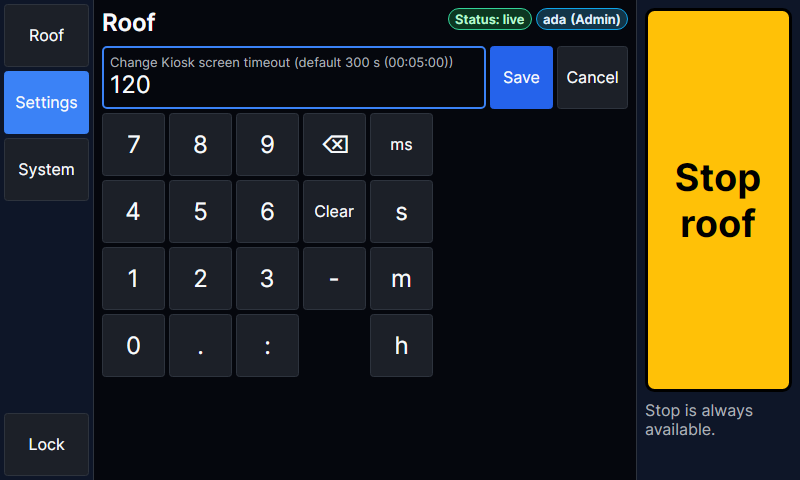
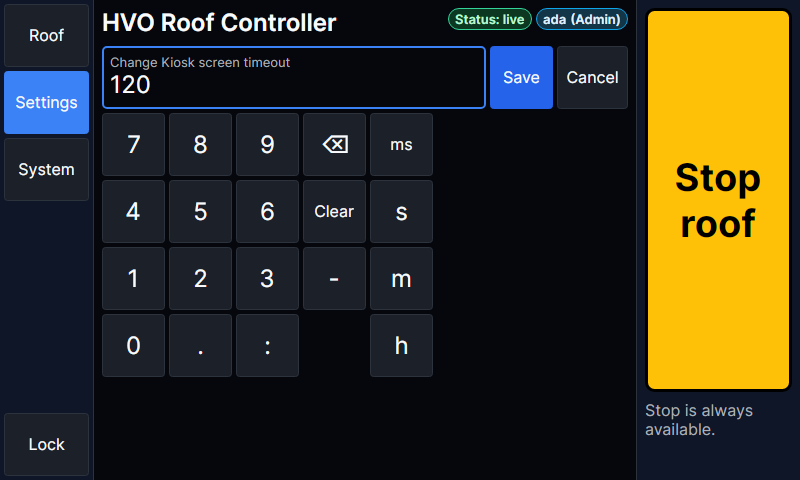
fix: address the recheck of the kiosk review fixes (#47)
- The header gives the controller's name the width the badges leave,
  and at least half the header (KioskHeaderPanel), on one line; a
  longer name ends in an ellipsis and the Controller row shows it
  whole. It is no longer broken inside a word by a fixed cap.
- The renders send the controller's default name, as a controller
  does, and the docs screenshots are refreshed to match.
- The settings editor's caption no longer carries the default (shown
  a press before, on the setting's page) and is never cut; a test
  opens every writable setting's editor at 800x480.
- The render checks accept an abbreviated text only where kiosk.md
  says one is shortened on purpose.
- kiosk.md takes the certificate pin from the certificate the
  controller serves, not from a roof.crt the directory lacks; a test
  checks every file the steps read.
- The test rig takes the server when the host starts: after a web UI
  Restart the program disposes the host's services before the rig's
  cleanup (the browser job's ObjectDisposedException).

Claude-Session: https://claude.ai/code/session_01YTXGZBH85aEHV5KnWRZ6C4

Changed region(s): [[0.125, 0.0, 0.4375, 0.0625], [0.375, 0.0938, 0.5625, 0.1562]]

diff --git a/tests/HVO.RoofControllerV4.RPi.Tests/Kiosk/KioskRenderTests.cs b/tests/HVO.RoofControllerV4.RPi.Tests/Kiosk/KioskRenderTests.cs
@@ -5,6 +5,7 @@ using Avalonia.Interactivity;
 using Avalonia.Media;
 using Avalonia.VisualTree;
 using FluentAssertions;
+using HVO.Core.Results;
 using HVO.RoofControllerV4.Client;
 using HVO.RoofControllerV4.Common.Models;
 using HVO.RoofControllerV4.RPi.Logic;
@@ -121,7 +122,7 @@ public sealed class KioskRenderTests
 
         await OnUiAsync(() =>
         {
-            screen.Text("title").Should().Be("Roof");
+            screen.Text("title").Should().Be(KioskHarness.ControllerName);
             screen.Visible("lease").Should().BeTrue();
             var pill = screen.Find("unlocked-by")!;
             pill.Bounds.Width.Should().BeLessThanOrEqualTo(screen.Metrics.Touch * 3, "a long name is cut short, not the header squeezed");
@@ -134,6 +135,67 @@ public sealed class KioskRenderTests
                 .Where(block => block.IsEffectivelyVisible && block.Text?.EndsWith(unlocked, StringComparison.Ordinal) == true)
                 .Should().ContainSingle("the whole name is in the notice");
         });
+    }
+
+    [TestMethod]
+    [DataRow(1280, 720, 8.2, "HualapaiValleyObservatory", false)]
+    [DataRow(800, 480, 5.2, "HualapaiValleyObservatory", false)]
+    [DataRow(1280, 720, 8.2, "HualapaiValleyObservatoryRollOffRoofController", true)]
+    [DataRow(800, 480, 5.2, "HualapaiValleyObservatoryRollOffRoofController", true)]
+    [DataRow(1280, 720, 8.2, "Hualapai Valley Observatory roll-off roof controller", true)]
+    [DataRow(800, 480, 5.2, "Hualapai Valley Observatory roll-off roof controller", true)]
+    public async Task TheControllerName_IsWholeWhileTheBadgesFitBesideIt_AndKeepsHalfTheHeaderWhenNot(
+        int width, int height, double pixelsPerMillimetre, string start, bool padded)
+    {
+        // Padded to as long as a controller name may be (64 characters); the person's name too, with the lease pill.
+        var controller = padded ? start.PadRight(64, 'x') : start;
+        var name = "observatory.night.operator@hualapai-valley.example.org".PadRight(RoofIdentityContract.MaximumNameLength, 'x');
+        await using var harness = await KioskHarness.CreateAsync();
+        harness.Report(harness.Current with { ControllerName = controller });
+        harness.Roof.Mock.Setup(service => service.Open()).Returns(() =>
+        {
+            harness.Report(KioskHarness.Opening() with { ControllerName = controller });
+            return Result<RoofControllerStatus>.Success(RoofControllerStatus.Opening);
+        });
+        await harness.StartLiveAsync();
+        await RoofClientApiTests.AddUserAsync(harness.Host, name, RoofControllerApiContract.OperatorRole, TestSecrets.Pin);
+        await using var screen = await KioskScreen.ShowAsync(harness, width, height, pixelsPerMillimetre);
+
+        // Locked, the badges are short: a name that fits beside them is whole.
+        await screen.RenderAsync($"controller-name-locked-{controller.Length}-{(controller.Contains(' ') ? "words" : "word")}", TestContext);
+        await OnUiAsync(() => TitleShouldFit(screen, controller, whole: !padded));
+
+        await harness.UnlockAsync(name);
+        await harness.Console.OpenAsync();
+        await harness.WaitForAsync(view => view.HoldsLease && view.Status?.Status == RoofControllerStatus.Opening, "the opening roof");
+        await screen.RenderAsync($"controller-name-unlocked-{controller.Length}-{(controller.Contains(' ') ? "words" : "word")}", TestContext);
+        await OnUiAsync(() =>
+        {
+            // Unlocked, the person's pill and the lease take more room: a short name may or may not fit beside them.
+            TitleShouldFit(screen, controller, whole: padded ? false : null);
+            screen.Visible("lease").Should().BeTrue();
+        });
+    }
+
+    private static void TitleShouldFit(KioskScreen screen, string controller, bool? whole)
+    {
+        var title = (TextBlock)screen.Find("title")!;
+        var header = (Control)title.GetVisualParent()!;
+        title.Text.Should().Be(controller);
+        title.TextLayout.TextLines.Should().ContainSingle("the name is on one line, never broken inside a word");
+        if (whole == true)
+        {
+            title.TextLayout.TextLines[0].HasCollapsed.Should().BeFalse("the name fits beside the badges");
+        }
+        else if (whole == false || title.TextLayout.TextLines[0].HasCollapsed)
+        {
+            title.TextLayout.TextLines[0].HasCollapsed.Should().BeTrue("a name too long for its share ends in an ellipsis");
+            title.Bounds.Width.Should().BeGreaterThanOrEqualTo(header.Bounds.Width / 2 - 1, "the name keeps at least half the header");
+        }
+
+        screen.Window.GetVisualDescendants().OfType<TextBlock>()
+            .Where(block => block.IsEffectivelyVisible && block.Text?.Contains(controller, StringComparison.Ordinal) == true && block != title)
+            .Should().NotBeEmpty("the status card's Controller row shows the name whole");
     }
 
     [TestMethod]
@@ -298,6 +360,39 @@ public sealed class KioskRenderTests
             screen.Text("editor-value").Should().Be("Pier");
             screen.OffScreen(name => name.StartsWith("editor-", StringComparison.Ordinal)).Should().BeEmpty("the value, Save, Cancel and every key are on the screen without scrolling");
         });
+    }
+
+    [TestMethod]
+    public async Task EverySettingsEditor_FitsTheSmallestScreen_WithItsCaptionWhole()
+    {
+        await using var harness = await KioskHarness.CreateAsync();
+        await harness.StartLiveAsync();
+        await harness.UnlockAsync(KioskHarness.Admin);
+        await using var screen = await KioskScreen.ShowAsync(harness, 800, 480, 5.2);
+        await OnUiAsync(() => screen.Shell.ShowPage(KioskPage.Settings));
+        await UntilAsync(() => screen.Shell.Settings is { Form: not null, Busy: null }, "the settings");
+        var keys = await OnUiAsync(() => screen.Shell.Settings.Form!.Groups
+            .SelectMany(group => group.Fields)
+            .Where(field => field.CanWrite && !field.Setting.Secret)
+            .Select(field => field.Key)
+            .ToList());
+        keys.Should().HaveCountGreaterThan(20, "the admin may change most settings here");
+
+        foreach (var key in keys)
+        {
+            await OnUiAsync(() =>
+            {
+                screen.Shell.Settings.SelectField(key);
+                screen.Shell.Settings.BeginEdit();
+            });
+            await screen.CheckAsync($"editor-{key}");
+            await OnUiAsync(() =>
+            {
+                screen.Shell.Settings.Editing.Should().NotBeNull(key);
+                screen.OffScreen(name => name.StartsWith("editor-", StringComparison.Ordinal)).Should().BeEmpty($"{key}'s editor is on the screen without scrolling");
+                screen.Shell.Settings.CancelEdit();
+            });
+        }
     }
 
     [TestMethod]

diff --git a/tests/HVO.RoofControllerV4.RPi.Tests/Kiosk/KioskProgramTests.cs b/tests/HVO.RoofControllerV4.RPi.Tests/Kiosk/KioskProgramTests.cs
@@ -440,17 +440,23 @@ public sealed partial class KioskProgramTests
     [TestMethod]
     public void TheInstallSteps_InstallEveryFileOfTheDirectoryTheyRunIn_AndNoOther()
     {
-        // The directory is the program beside the deploy files: CI's artifact, or what the page publishes and copies.
-        var directory = Directory.GetFiles(Path.GetDirectoryName(DeployFile("hvo-roof-kiosk.service"))!)
-            .Select(Path.GetFileName)
-            .Append("hvo-roof-kiosk");
         var page = File.ReadAllText(InstallPage());
         var installed = InstallPattern().Matches(page).Select(match => match.Groups["source"].Value);
 
-        installed.Should().BeEquivalentTo(directory, "the steps install each file by its bare name, from that directory");
+        installed.Should().BeEquivalentTo(InstallDirectory(), "the steps install each file by its bare name, from that directory");
         page.Should().Contain("dotnet publish src/HVO.RoofControllerV4.Kiosk -c Release -r linux-arm64 -o hvo-roof-kiosk\n")
             .And.Contain("cp src/HVO.RoofControllerV4.Kiosk/deploy/* hvo-roof-kiosk/\n")
             .And.Contain("cd hvo-roof-kiosk\n");
+    }
+
+    [TestMethod]
+    public void TheInstallSteps_ReadNoFileTheDirectoryTheyRunInLacks()
+    {
+        var page = File.ReadAllText(InstallPage());
+        var read = ReadPattern().Matches(page).Select(match => match.Groups["file"].Value).ToList();
+
+        read.Should().NotBeEmpty("the page's commands read files (an example: the settings)");
+        read.Where(file => !file.StartsWith('/')).Should().BeSubsetOf(InstallDirectory(), "a file a step reads by a relative name is in the directory the steps run in");
     }
 
     [GeneratedRegex("ACTION==\"(?<action>[a-z]+)\"")]
@@ -458,6 +464,16 @@ public sealed partial class KioskProgramTests
 
     [GeneratedRegex("^ *sudo install -m [0-7]+ (?<source>[^ ]+) [^ ]+$", RegexOptions.Multiline)]
     private static partial Regex InstallPattern();
+
+    /// <summary>A file a command reads: an install's source, or <c>-in</c>'s file.</summary>
+    [GeneratedRegex("(?:^ *sudo install -m [0-7]+ | -in )(?<file>[^ \n]+)", RegexOptions.Multiline)]
+    private static partial Regex ReadPattern();
+
+    /// <summary>The directory the install steps run in: the program beside the deploy files (CI's artifact, or what the page publishes and copies).</summary>
+    private static IEnumerable<string> InstallDirectory()
+        => Directory.GetFiles(Path.GetDirectoryName(DeployFile("hvo-roof-kiosk.service"))!)
+            .Select(file => Path.GetFileName(file))
+            .Append("hvo-roof-kiosk");
 
     private static string DeployFile(string name) => Path.Combine(RepositoryRoot(), "src", "HVO.RoofControllerV4.Kiosk", "deploy", name);
 

diff --git a/tests/HVO.RoofControllerV4.RPi.Tests/Kiosk/KioskScreen.cs b/tests/HVO.RoofControllerV4.RPi.Tests/Kiosk/KioskScreen.cs
@@ -88,6 +88,14 @@ internal sealed class KioskScreen : IAsyncDisposable
         return pixels.Lit;
     });
 
+    /// <summary>Lays the screen out and runs <see cref="RenderAsync"/>'s layout checks, without drawing or saving it.</summary>
+    public Task CheckAsync(string name) => OnUiAsync(() =>
+    {
+        Window.UpdateLayout();
+        Dispatcher.UIThread.RunJobs();
+        CheckLayout(name);
+    });
+
     /// <summary>Lays the screen out and draws it, as the kiosk does when something on it changes, without saving it.</summary>
     public Task DrawAsync() => OnUiAsync(() =>
     {
@@ -166,6 +174,10 @@ internal sealed class KioskScreen : IAsyncDisposable
         return shown;
     }
 
+    /// <summary>The texts shortened on purpose: the controller's name, the person's name on its pill, and the value being typed.</summary>
+    private static bool ShortenedOnPurpose(TextBlock block)
+        => block.Name is "title" or "editor-value" || block.GetVisualAncestors().OfType<Control>().Any(ancestor => ancestor.Name == "unlocked-by");
+
     private void CheckLayout(string name)
     {
         var screen = new Rect(Window.ClientSize);
@@ -202,8 +214,16 @@ internal sealed class KioskScreen : IAsyncDisposable
             }
 
             // An ellipsis cuts a text short without shortening its lines, and a text that may not wrap can be wider than
-            // its box. Only a text marked abbreviated may end in an ellipsis: its whole text is shown elsewhere.
-            if (!block.Classes.Contains(KioskTheme.Abbreviated))
+            // its box. Only a text marked abbreviated may end in an ellipsis: its whole text is shown elsewhere. Those are
+            // the three kiosk.md lists; the mark on any other is a fault.
+            if (block.Classes.Contains(KioskTheme.Abbreviated))
+            {
+                if (!ShortenedOnPurpose(block))
+                {
+                    problems.Add($"\"{text}\" is marked abbreviated, but is not one of the texts kiosk.md says are shortened on purpose");
+                }
+            }
+            else
             {
                 if (block.TextLayout.TextLines.Any(line => line.HasCollapsed))
                 {

diff --git a/src/HVO.RoofControllerV4.Screens/KioskHeaderPanel.cs b/src/HVO.RoofControllerV4.Screens/KioskHeaderPanel.cs
@@ -1,0 +1,46 @@
+using Avalonia;
+using Avalonia.Controls;
+
+namespace HVO.RoofControllerV4.Screens;
+
+/// <summary>
+/// The header's layout: the title (its first child) on the left and the badges (its second) on the right. The title has
+/// its whole width while the badges fit beside it on one line, and at least half the header when they do not; the badges
+/// take what is left and wrap onto more lines in it. A title wider than its share is cut short by the title itself.
+/// </summary>
+internal sealed class KioskHeaderPanel : Panel
+{
+    private double _titleWidth;
+
+    /// <summary>The room between the title and the badges.</summary>
+    public double Spacing { get; init; }
+
+    protected override Size MeasureOverride(Size availableSize)
+    {
+        var (title, badges) = (Children[0], Children[1]);
+        var unbounded = new Size(double.PositiveInfinity, availableSize.Height);
+        title.Measure(unbounded);
+        badges.Measure(unbounded);
+        var width = availableSize.Width;
+        if (!double.IsFinite(width))
+        {
+            _titleWidth = title.DesiredSize.Width;
+            return new Size(_titleWidth + Spacing + badges.DesiredSize.Width, Math.Max(title.DesiredSize.Height, badges.DesiredSize.Height));
+        }
+
+        _titleWidth = Math.Min(title.DesiredSize.Width, Math.Max(width / 2, width - Spacing - badges.DesiredSize.Width));
+        title.Measure(new Size(_titleWidth, availableSize.Height));
+        badges.Measure(new Size(Math.Max(0, width - _titleWidth - Spacing), availableSize.Height));
+        return new Size(width, Math.Max(title.DesiredSize.Height, badges.DesiredSize.Height));
+    }
+
+    protected override Size ArrangeOverride(Size finalSize)
+    {
+        var (title, badges) = (Children[0], Children[1]);
+        var titleWidth = Math.Min(_titleWidth, finalSize.Width);
+        title.Arrange(new Rect(0, 0, titleWidth, finalSize.Height));
+        var left = Math.Min(finalSize.Width, titleWidth + Spacing);
+        badges.Arrange(new Rect(left, 0, finalSize.Width - left, finalSize.Height));
+        return finalSize;
+    }
+}

diff --git a/src/HVO.RoofControllerV4.Screens/KioskShell.cs b/src/HVO.RoofControllerV4.Screens/KioskShell.cs
@@ -58,17 +58,18 @@ public sealed class KioskShell : UserControl
         Foreground = KioskTheme.Text;
         FontSize = metrics.Font;
 
-        // The title and the badges share the header: the title (the controller's name) keeps its width, wrapping between
-        // words past a limit, and the badges wrap onto more lines in what is left. The unlocking person's name is cut
-        // short on its pill (see UpdateBadges), so a long one cannot squeeze the title.
+        // The title and the badges share the header (KioskHeaderPanel): the title (the controller's name) is whole while
+        // the badges fit beside it, and keeps at least half the header when they do not; a longer name ends in an
+        // ellipsis, and the status card's Controller row shows it whole. The badges wrap onto more lines in what is
+        // left. The unlocking person's name is cut short on its pill (see UpdateBadges), so a long one cannot squeeze
+        // the title.
         _title = KioskTheme.Label("Roof", metrics.Large, weight: FontWeight.SemiBold);
         _title.Name = "title";
-        _title.MaxWidth = metrics.Touch * 4;
+        _title.TextWrapping = TextWrapping.NoWrap;
+        _title.TextTrimming = TextTrimming.CharacterEllipsis;
+        _title.Classes.Add(KioskTheme.Abbreviated);
         _badges = new WrapPanel { Name = "badges", ItemSpacing = metrics.Gap, LineSpacing = metrics.Gap / 2, HorizontalAlignment = HorizontalAlignment.Right };
-        var header = new Grid { ColumnDefinitions = new ColumnDefinitions("Auto,*"), ColumnSpacing = metrics.Gap * 2, Margin = new Thickness(0, 0, 0, metrics.Gap) };
-        header.Children.Add(_title);
-        Grid.SetColumn(_badges, 1);
-        header.Children.Add(_badges);
+        var header = new KioskHeaderPanel { Spacing = metrics.Gap * 2, Margin = new Thickness(0, 0, 0, metrics.Gap), Children = { _title, _badges } };
         _banners = new StackPanel { Name = "banners", Spacing = metrics.Gap, Margin = new Thickness(0, 0, 0, metrics.Gap) };
         _scroller = new ScrollViewer
         {

diff --git a/src/HVO.RoofControllerV4.Screens/KioskSettingsPage.cs b/src/HVO.RoofControllerV4.Screens/KioskSettingsPage.cs
@@ -170,7 +170,8 @@ public sealed class KioskSettingsPage : UserControl
     private Control Editor(RoofSettingsFormField field)
     {
         var panel = new StackPanel { Name = "editor", Spacing = _metrics.Gap };
-        var label = $"Change {field.Label} (default {field.DefaultValue})";
+        // The default is on the setting's page, a press before the editor; here the caption is kept to one short line.
+        var label = $"Change {field.Label}";
         if (_panel.EditError is { } error)
         {
             // Above the editor, so it is seen without scrolling past the keyboard.
@@ -214,15 +215,14 @@ public sealed class KioskSettingsPage : UserControl
                     VerticalAlignment = VerticalAlignment.Center,
                     Children =
                     {
-                        // The label is the setting's, shown whole on its page before the editor opened.
+                        // One line, never cut: the render checks refuse it cut short.
                         new TextBlock
                         {
                             Name = "editor-label",
                             Text = label,
                             FontSize = _metrics.Small,
                             Foreground = KioskTheme.Muted,
-                            TextTrimming = TextTrimming.CharacterEllipsis,
-                            Classes = { KioskTheme.Abbreviated }
+                            TextTrimming = TextTrimming.CharacterEllipsis
                         },
                         // A value too long for the box shows its end, where the typing is.
                         new TextBlock

diff --git a/tests/HVO.RoofControllerV4.RPi.Tests/TestSupport/EmulatedRoofRig.cs b/tests/HVO.RoofControllerV4.RPi.Tests/TestSupport/EmulatedRoofRig.cs
@@ -359,13 +359,14 @@ internal sealed class EmulatedRoofRig : IAsyncDisposable
 /// </summary>
 internal sealed class EmulatedRoofApp(Dictionary<string, string?> settings, string environment, RecordingLoggerProvider logs, bool consoleLog = true) : WebApplicationFactory<Program>
 {
-    private IHost? _host;
+    private IServer? _server;
 
     public override async ValueTask DisposeAsync()
     {
-        // Found while the host is still whole; disposed once it has stopped serving.
-        var limiters = _host is null ? [] : PipelineRateLimiters.Find(_host.Services.GetRequiredService<IServer>());
-        _host = null;
+        // Found before the host is disposed; disposed once it has stopped serving. The server is taken when the host
+        // starts: a restart (StopApplication) ends the program, which disposes the host's services before this runs.
+        var limiters = _server is null ? [] : PipelineRateLimiters.Find(_server);
+        _server = null;
         await base.DisposeAsync();
         foreach (var limiter in limiters)
         {
@@ -373,7 +374,12 @@ internal sealed class EmulatedRoofApp(Dictionary<string, string?> settings, stri
         }
     }
 
-    protected override IHost CreateHost(IHostBuilder builder) => _host = base.CreateHost(builder);
+    protected override IHost CreateHost(IHostBuilder builder)
+    {
+        var host = base.CreateHost(builder);
+        _server = host.Services.GetRequiredService<IServer>();
+        return host;
+    }
 
     public HttpClient CreateApiClient(string? apiKey = null)
     {

diff --git a/tests/HVO.RoofControllerV4.RPi.Tests/Kiosk/KioskHarness.cs b/tests/HVO.RoofControllerV4.RPi.Tests/Kiosk/KioskHarness.cs
@@ -174,13 +174,16 @@ internal sealed class KioskHarness : IAsyncDisposable
         return harness;
     }
 
+    /// <summary>The name the controller sends when none is set, as the kiosk shows it on a controller as installed.</summary>
+    public static readonly string ControllerName = new RoofControllerHostOptionsV4().ControllerName;
+
     /// <summary>A roof status as the controller reports it, taken at <see cref="Start"/>.</summary>
     public static RoofStatusResponse Snapshot(
         RoofControllerStatus status = RoofControllerStatus.Closed,
         RoofMotionDirection motion = RoofMotionDirection.None,
         bool faultLatched = false,
         RoofRelayRegisterState relayState = RoofRelayRegisterState.Verified)
-        => RoofServiceMock.Snapshot(status, motion, faultLatched, relayState) with { SnapshotUtc = Start, LastTransitionUtc = Start };
+        => RoofServiceMock.Snapshot(status, motion, faultLatched, relayState) with { SnapshotUtc = Start, LastTransitionUtc = Start, ControllerName = ControllerName };
 
     /// <summary>
     /// A roof that is opening, with <paramref name="leaseSeconds"/> of operator lease left: 6 s is renewed every 2 s,

diff --git a/docs/kiosk.md b/docs/kiosk.md
@@ -226,10 +226,11 @@ OS Lite (no desktop): nothing else may hold the display.
    ```
 
    In HTTPS mode the controller's API is published on port 8443 only, so the
-   kiosk uses `https://localhost:8443/`. The certificate is not issued for `localhost`, so pin it by its SHA-256:
+   kiosk uses `https://localhost:8443/`. The certificate is not issued for `localhost`, so pin it by its SHA-256. Take
+   it from the certificate the controller serves on that port, which works in this directory and whoever issued it:
 
    ```bash
-   openssl x509 -in roof.crt -noout -fingerprint -sha256 | cut -d= -f2
+   openssl s_client -connect localhost:8443 </dev/null 2>/dev/null | openssl x509 -noout -fingerprint -sha256 | cut -d= -f2
    ```
 
    and put that in `ServerCertificateSha256`. Under `pi-lan-http` the kiosk uses `http://localhost:8080` and no pin.
@@ -319,8 +320,9 @@ Nothing here needs the Pi, the display or the roof.
   for settings it cannot start with; CI runs the published program without settings to check that code. The install
   steps above are checked against the files they install, which are the files of CI's artifact.
 - **The renders** (`KioskRenderTests`) draw each screen headless (Avalonia's headless platform with Skia) at 1280x720
-  and 800x480, and check that nothing overlaps, that no text is cut off but for text shortened on purpose (a long name
-  on its pill, the end of a long value being typed), that every button is at least 12 mm, and that Stop is shown in
+  and 800x480, and check that nothing overlaps, that no text is cut off but for the three texts shortened on purpose (a
+  controller name longer than half the header, which the Controller row shows whole; a long name on its pill; the end
+  of a long value being typed), that every button is at least 12 mm, and that Stop is shown in
   full on every screen and stops the roof even when touched as the screen blanks. The pictures on this page are those renders; CI keeps them as the `kiosk-renders`
   artifact. To refresh them, from `src/`:
 
